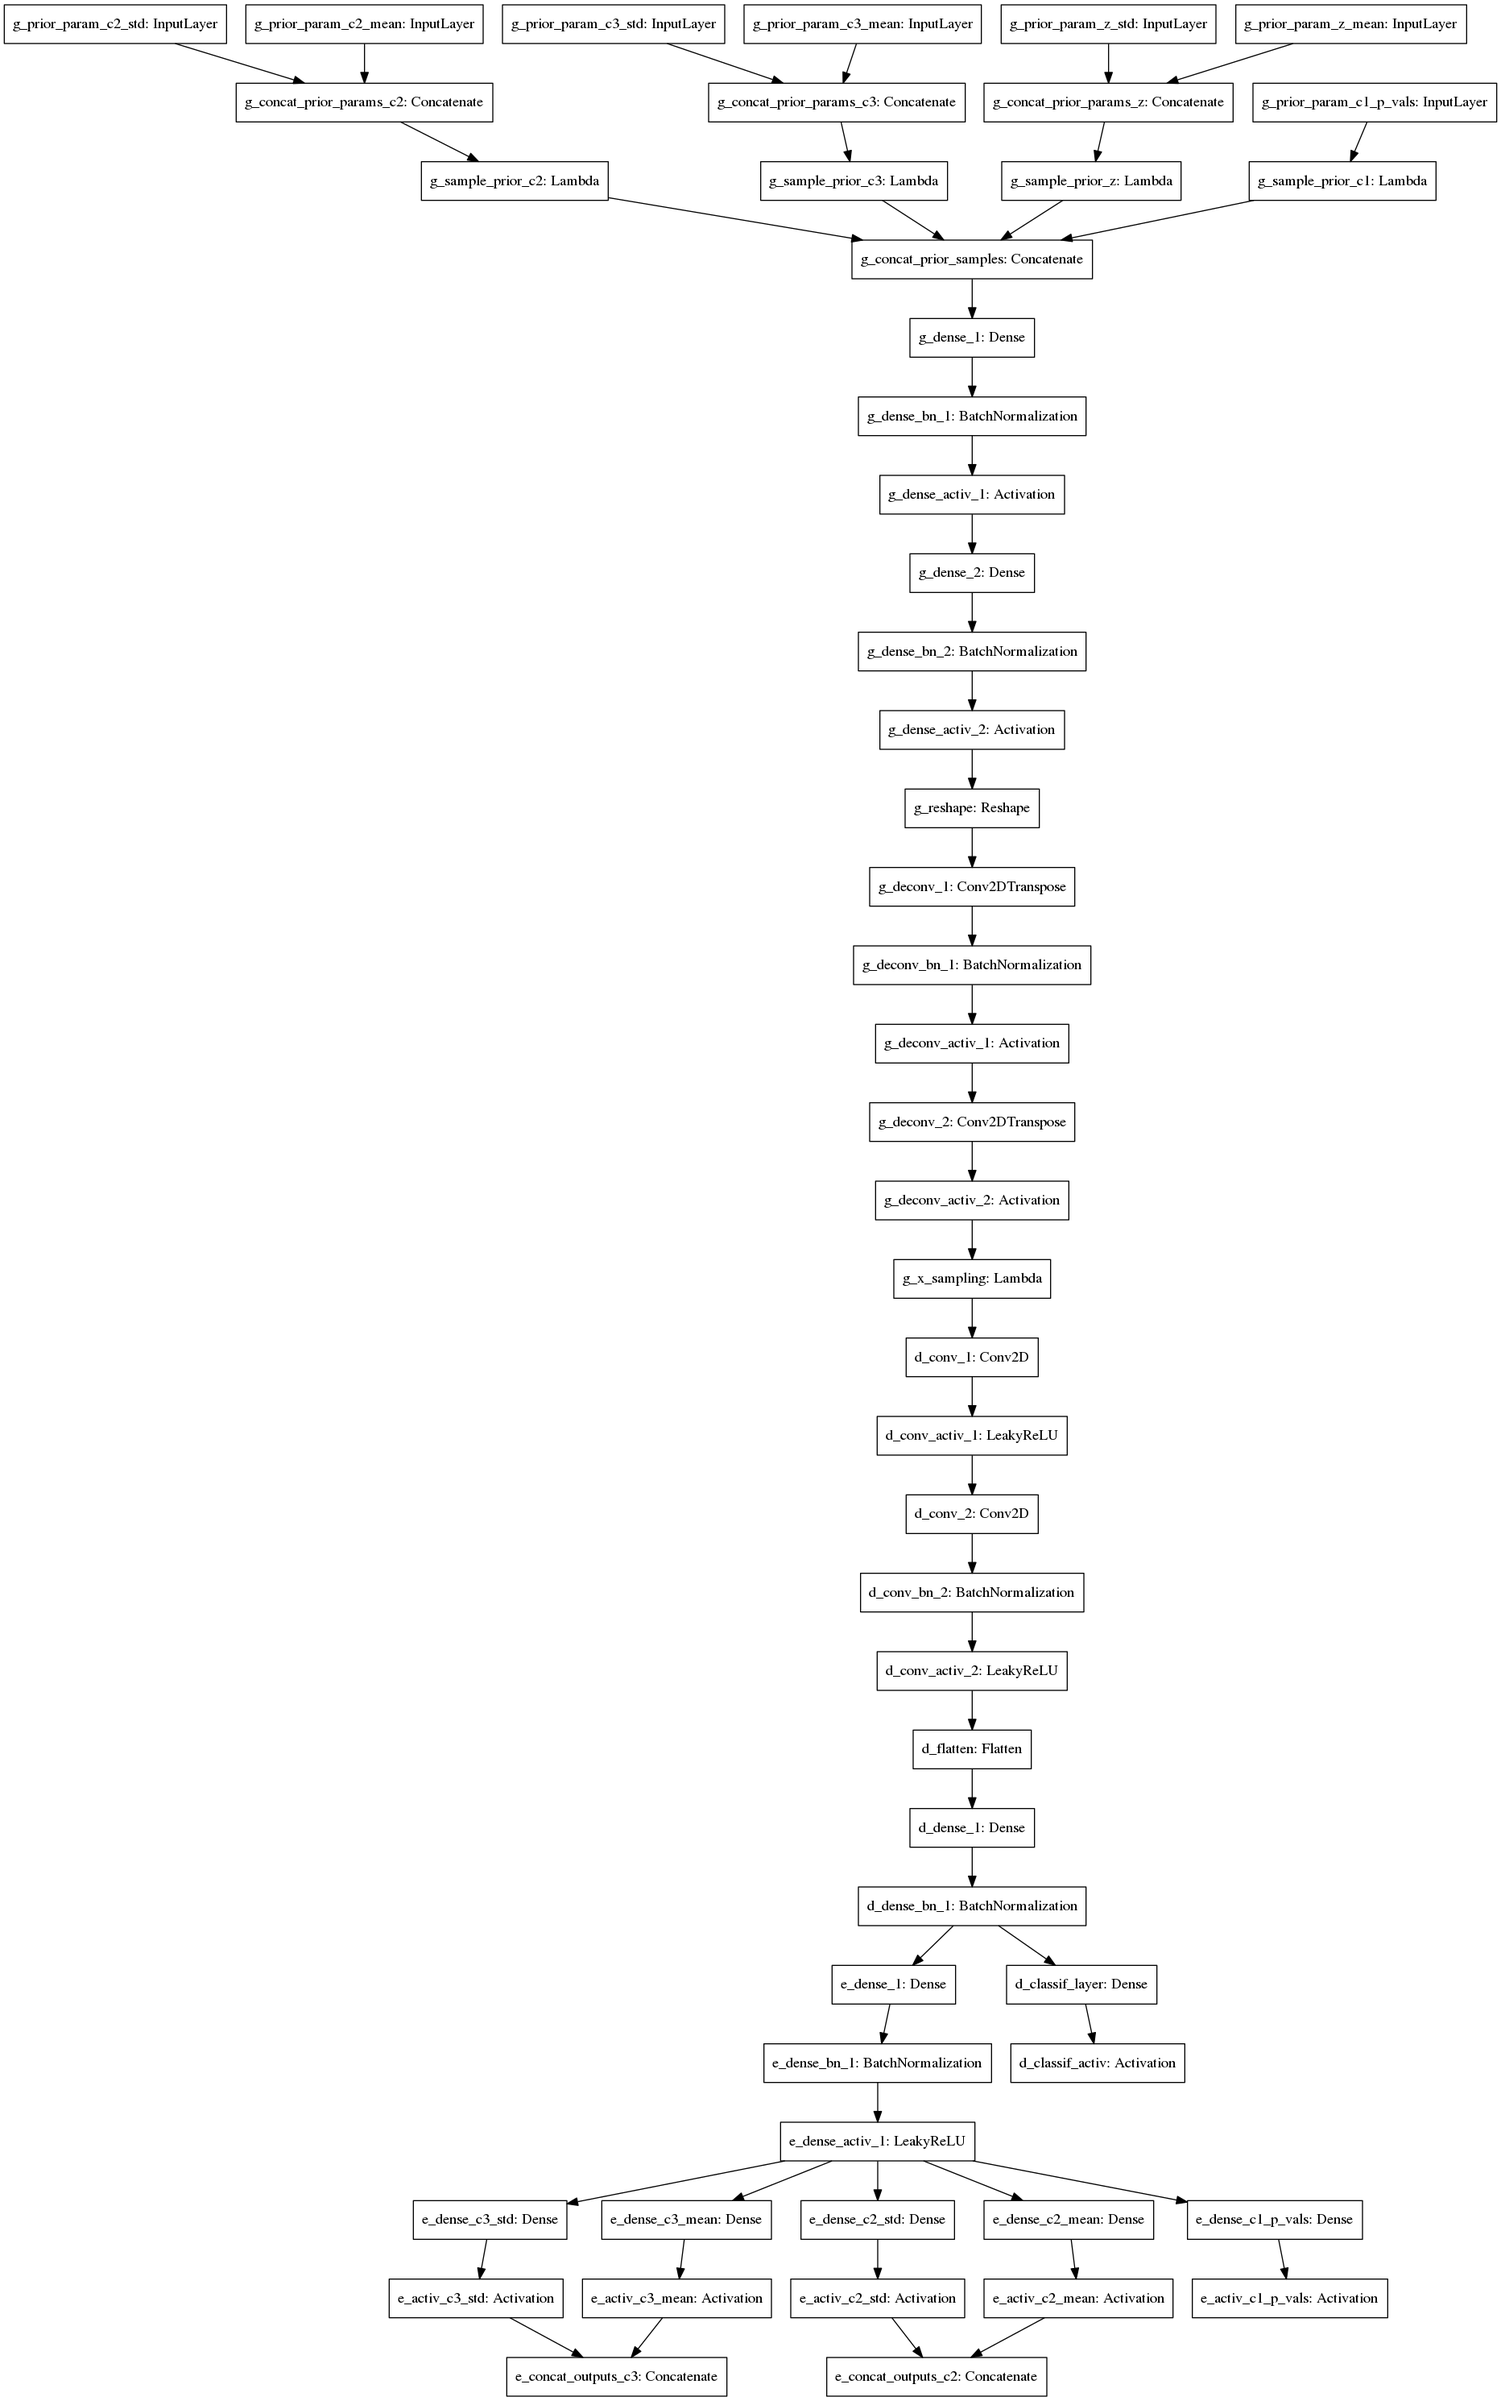
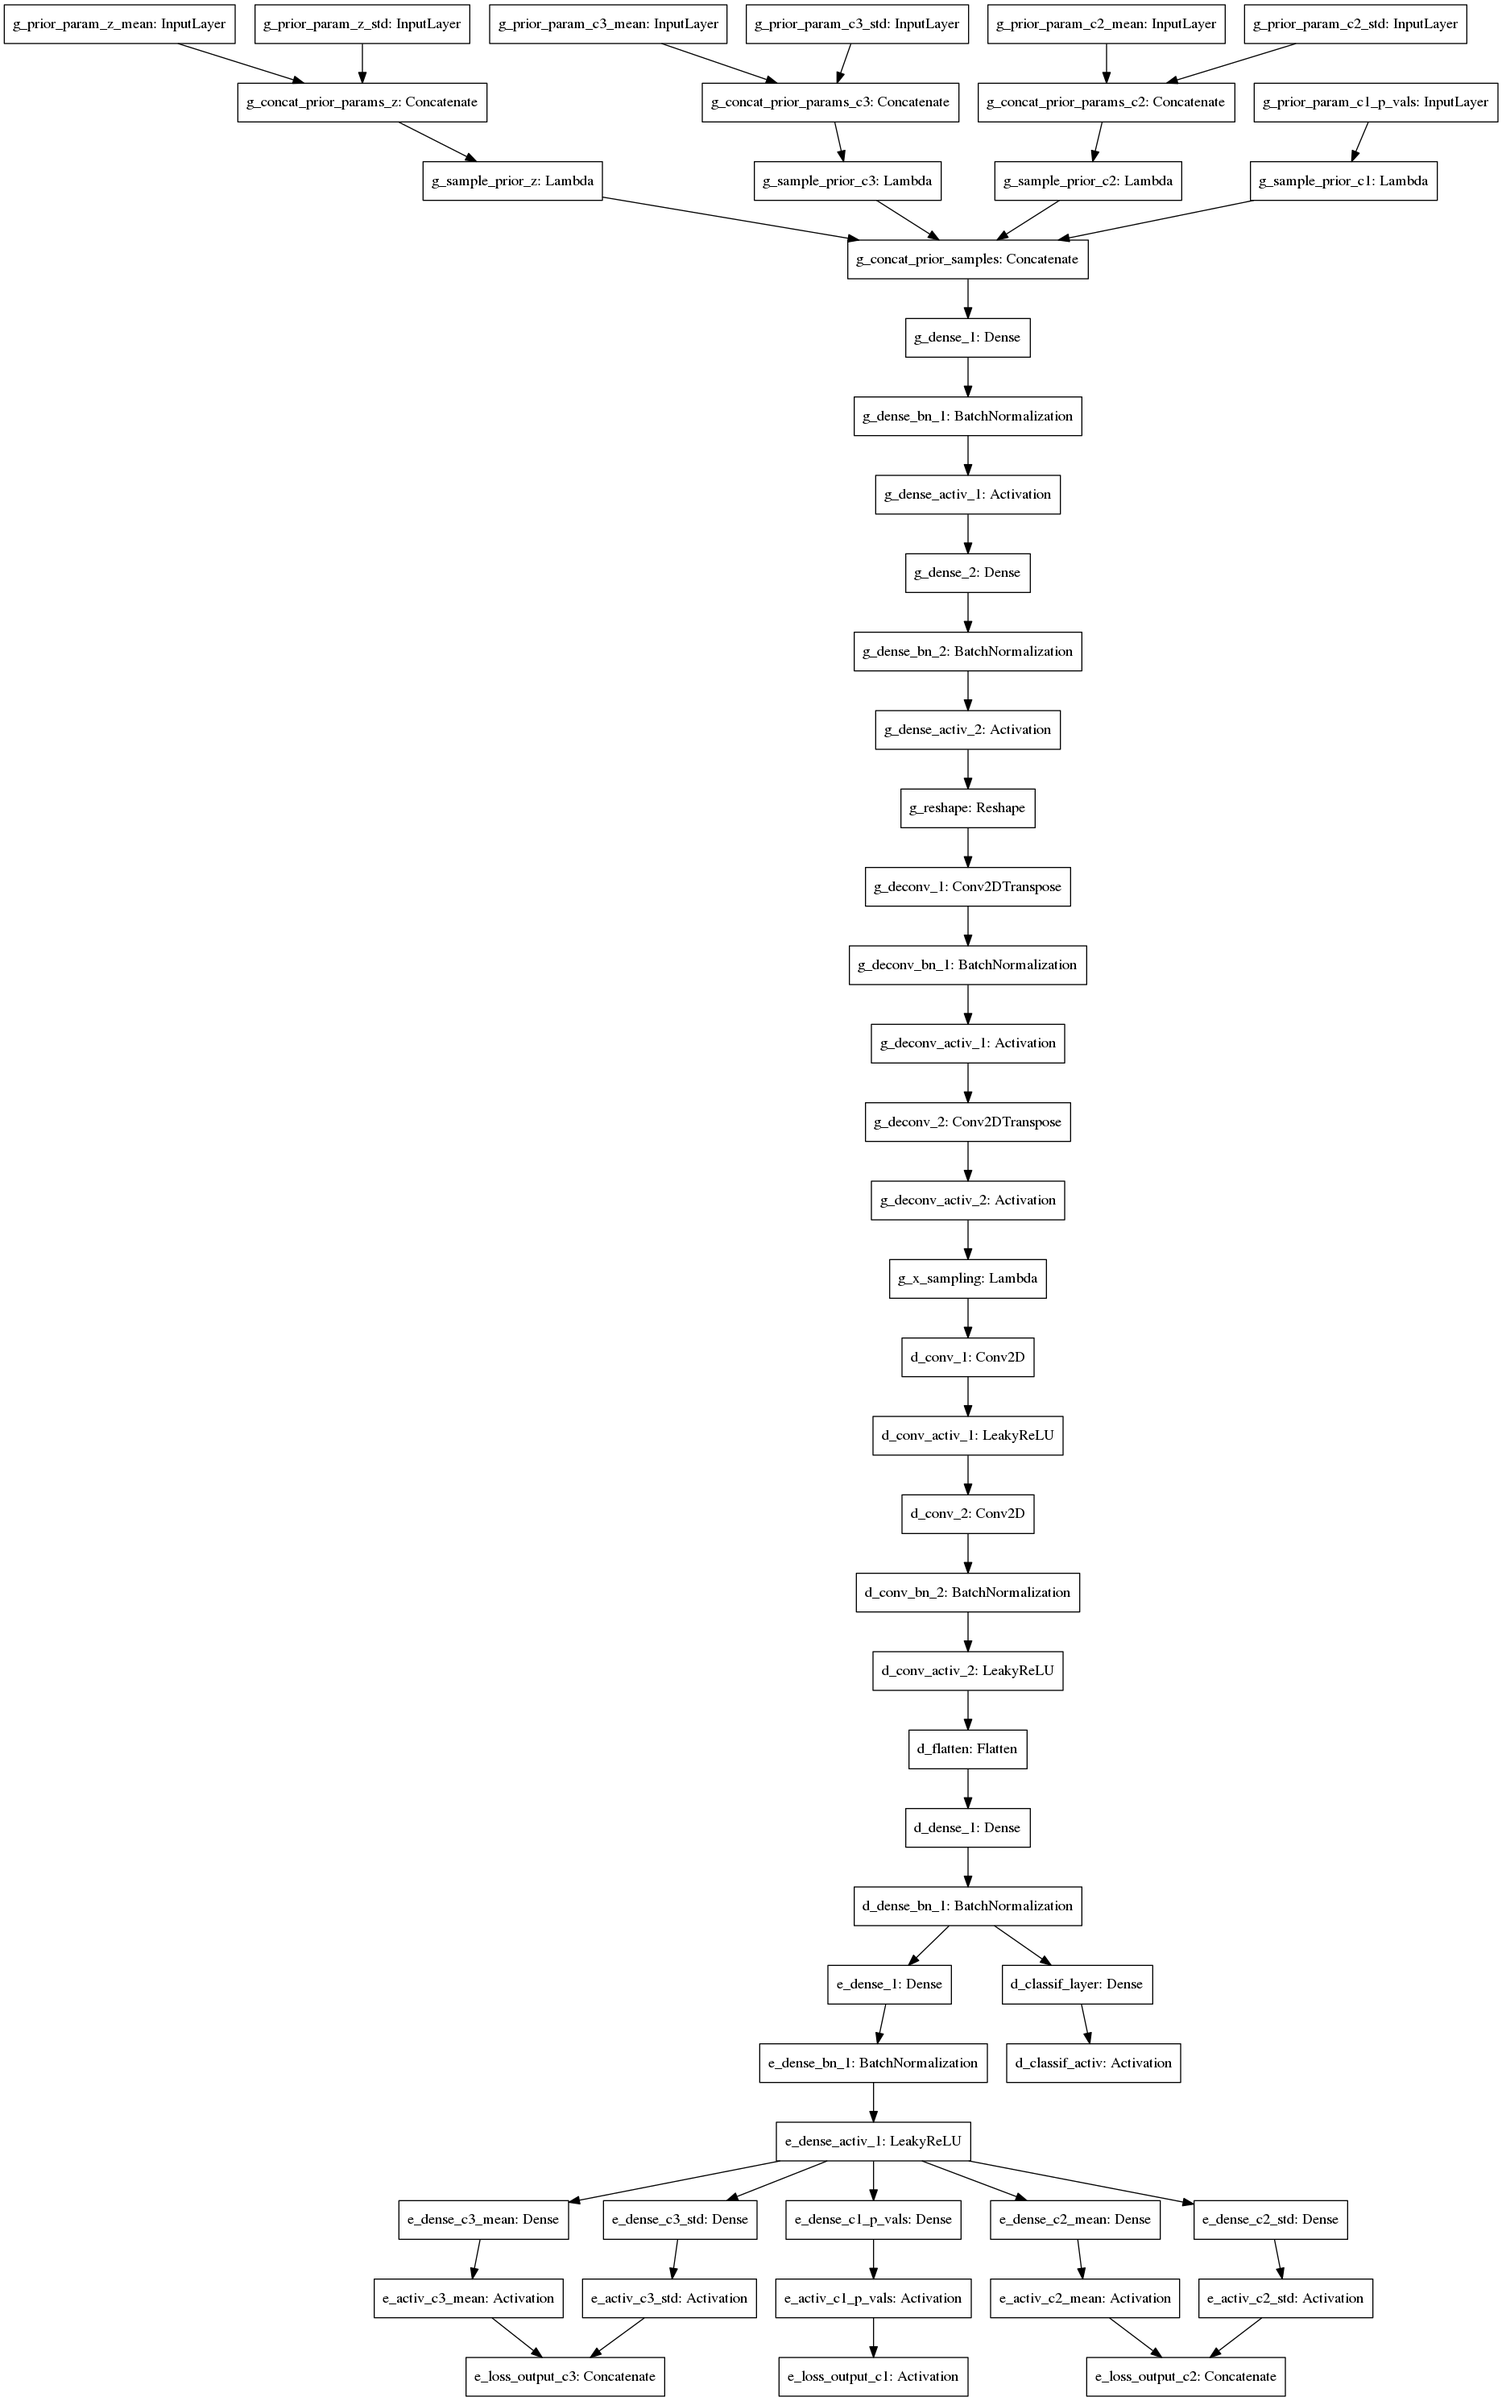
Make the loss assignments more explicit

diff --git a/learn/models/infogan.py b/learn/models/infogan.py
@@ -10,6 +10,7 @@ from keras.layers.core import Lambda
 from keras.layers.advanced_activations import LeakyReLU
 from keras.models import Model
 from keras.objectives import binary_crossentropy
+from keras.activations import linear
 
 from learn.networks.convnets import GeneratorNet, SharedNet
 
@@ -42,7 +43,7 @@ class InfoGAN(object):
         self.image_dist = image_dist
         self.prior_params = prior_params
 
-        d_input = Input(batch_shape=(2 * self.batch_size,) + self.image_shape, name="d_input")
+        d_input = Input(shape=self.image_shape, name="d_input")
         sampled_latents, prior_param_inputs, prior_param_names, prior_param_dist_names = self._sample_latent_inputs()
         sampled_latents_flat = list(sampled_latents.values())
         merged_samples = Concatenate(axis=-1, name="g_concat_prior_samples")(sampled_latents_flat)
@@ -63,13 +64,13 @@ class InfoGAN(object):
         self.gen_model = Model(inputs=prior_param_inputs, outputs=[generated])
         # NOTE: the loss here does not matter, it won't be used ...
         # the model is just compiled so that we can generate samples from it with .predict()
-        self.gen_model.compile(optimizer='adam', loss='binary_crossentropy')
+        self.gen_model.compile(optimizer='adam', loss=binary_crossentropy)
 
         # DISCRIMINATOR
         # --------------------------------------------------------------------
         # Disable the generator params while we define the discriminator
         # for layer in self.gen_model.layers:
-            # layer.trainable = False
+        # layer.trainable = False
 
         # now append the real images to the generated ones
         # merged = Concatenate(axis=0, name="d_concat_fake_real")([generated, real_input])
@@ -86,12 +87,12 @@ class InfoGAN(object):
         disc_out = disc_sigmoid(disc_out)
 
         # def disc_loss(targets, preds):
-            # # targets are disregarded, as it's clear what they are
-            # # the first batch_size many are zeros (generated)
-            # # the second batch_size many are ones (real)
-            # targets_generated = K.zeros(shape=(self.batch_size, 1))
-            # targets_real = K.ones(shape=(self.batch_size, 1))
-            # targets = K.concatenate([targets_generated, targets_real], axis=0)
+        # # targets are disregarded, as it's clear what they are
+        # # the first batch_size many are zeros (generated)
+        # # the second batch_size many are ones (real)
+        # targets_generated = K.zeros(shape=(self.batch_size, 1))
+        # targets_real = K.ones(shape=(self.batch_size, 1))
+        # targets = K.concatenate([targets_generated, targets_real], axis=0)
 
             # return binary_crossentropy(targets, preds)
 
@@ -108,7 +109,7 @@ class InfoGAN(object):
 
         # unfreeze the generator
         # for layer in self.gen_model.layers:
-            # layer.trainable = True
+        # layer.trainable = True
 
         # TODO: decide whether to freeze the discriminator
 
@@ -120,7 +121,7 @@ class InfoGAN(object):
 
         # add outputs for the parameters of all assumed meaninful distributions
         posterior_outputs = []
-        mi_losses = []
+        mi_losses = {}
         for dist_name, dist in meaningful_dists.items():
             param_outputs_dict = self._add_dist_outputs(dist_name, dist, encoder_net)
             param_outputs_list = []
@@ -132,11 +133,14 @@ class InfoGAN(object):
                 param_outputs_dims.append(dim)
                 param_names_list.append(param_name)
 
+            loss_output_name = "e_loss_output_{}".format(dist_name)
             if len(param_outputs_list) > 1:
                 merged_params = Concatenate(axis=-1,
-                                            name="e_concat_outputs_{}".format(dist_name))(param_outputs_list)
+                                            name=loss_output_name)(param_outputs_list)
             else:
                 merged_params = param_outputs_list[0]
+                merged_params = Activation(activation=linear,
+                                           name=loss_output_name)(merged_params)
 
             posterior_outputs.append(merged_params)
 
@@ -144,7 +148,7 @@ class InfoGAN(object):
             samples = sampled_latents[dist_name]
             mi_loss = self._build_mi_loss(samples, dist, param_names_list, param_outputs_dims)
 
-            mi_losses.append(mi_loss)
+            mi_losses[loss_output_name] = mi_loss
 
         self.encoder_model = Model(inputs=prior_param_inputs,
                                    outputs=posterior_outputs,
@@ -158,22 +162,25 @@ class InfoGAN(object):
             # preds = preds[:self.batch_size]
 
             # define the standard disc GAN loss
-            loss = K.sum(-K.log(preds))
+            loss = -K.log(preds)
 
             return loss
 
 
-        # Make the discriminator not trainable
+        # Make the discriminator part not trainable
         disc_last_dense.trainable = False
         disc_sigmoid.trainable = False
 
         gen_disc_out =  disc_last_dense(shared_gen)
         gen_disc_out = disc_sigmoid(gen_disc_out)
 
+        losses = mi_losses.copy()
+        losses[disc_sigmoid.name] = gen_loss
+
         self.enc_gen_model = Model(inputs=prior_param_inputs,
                                    outputs=[gen_disc_out] + posterior_outputs,
                                    name="enc_gen_model")
-        self.enc_gen_model.compile(optimizer='adam', loss=[gen_loss] + mi_losses)
+        self.enc_gen_model.compile(optimizer='adam', loss=losses)
 
         # DEBUGGING
         self._layer_functions = {}
@@ -182,6 +189,23 @@ class InfoGAN(object):
             self._layer_names.append(layer.name)
             self._layer_functions[layer.name] = K.function(inputs=[K.learning_phase()] + self.enc_gen_model.inputs,
                                                            outputs=[layer.get_output_at(0)])
+            # disc prediction
+            self.disc_prediction = K.function(inputs=[K.learning_phase()] + self.disc_model.inputs,
+                                              outputs=[disc_out])
+
+        self.gen_and_predict = K.function(inputs=[K.learning_phase()] + self.enc_gen_model.inputs,
+                                          outputs=[gen_disc_out, -K.log(gen_disc_out), generated])
+
+
+    def _sanity_check(self):
+        prior_params = self._assemble_prior_params()
+
+        gen_score, log_vals, samples = self.gen_and_predict([0] + prior_params)
+        disc_score = self.disc_prediction([0] + [samples])
+        print(gen_score)
+        print(log_vals)
+        print(disc_score)
+        assert np.all(np.equal(gen_score, disc_score))
 
     def _sample_latent_inputs(self):
         samples = {}

diff --git a/learn/models/model_trainer.py b/learn/models/model_trainer.py
@@ -19,8 +19,8 @@ class ModelTrainer(object):
         self.model = gan_model
         self.data_generator = data_generator
 
-        self.board = TensorBoard()
-        self.board.set_model(self.model)
+        self.board = TensorBoard(histogram_freq=100)
+        self.board.set_model(self.model.enc_gen_model)
 
     def train(self):
         counter = 0
@@ -28,7 +28,7 @@ class ModelTrainer(object):
         for samples in self.data_generator():
             disc_loss = self.model.train_disc_pass(samples)
             counter += 1
-            if counter % 10 == 9:
+            if counter % 2 == 1:
                 gen_losses = self.model.train_gen_pass()
                 # for i in range(len(self.model._layer_functions)):
                 # name, output = self.model.activation(i, samples)
@@ -40,4 +40,7 @@ class ModelTrainer(object):
                     loss_logs[loss_name] = loss
                 self.board.on_epoch_end(epoch_count, loss_logs)
                 epoch_count += 1
+
+            if counter % 20 == 0:
+                self.model._sanity_check()
         self.board.on_train_end({})

diff --git a/main.py b/main.py
@@ -12,7 +12,7 @@ from learn.models.model_trainer import ModelTrainer
 from learn.stats.distributions import Categorical, IsotropicGaussian, Bernoulli
 
 
-batch_size = 2
+batch_size = 8
 
 if __name__ == "__main__":
     (x_train, y_train), (x_test, y_test) = mnist.load_data()
